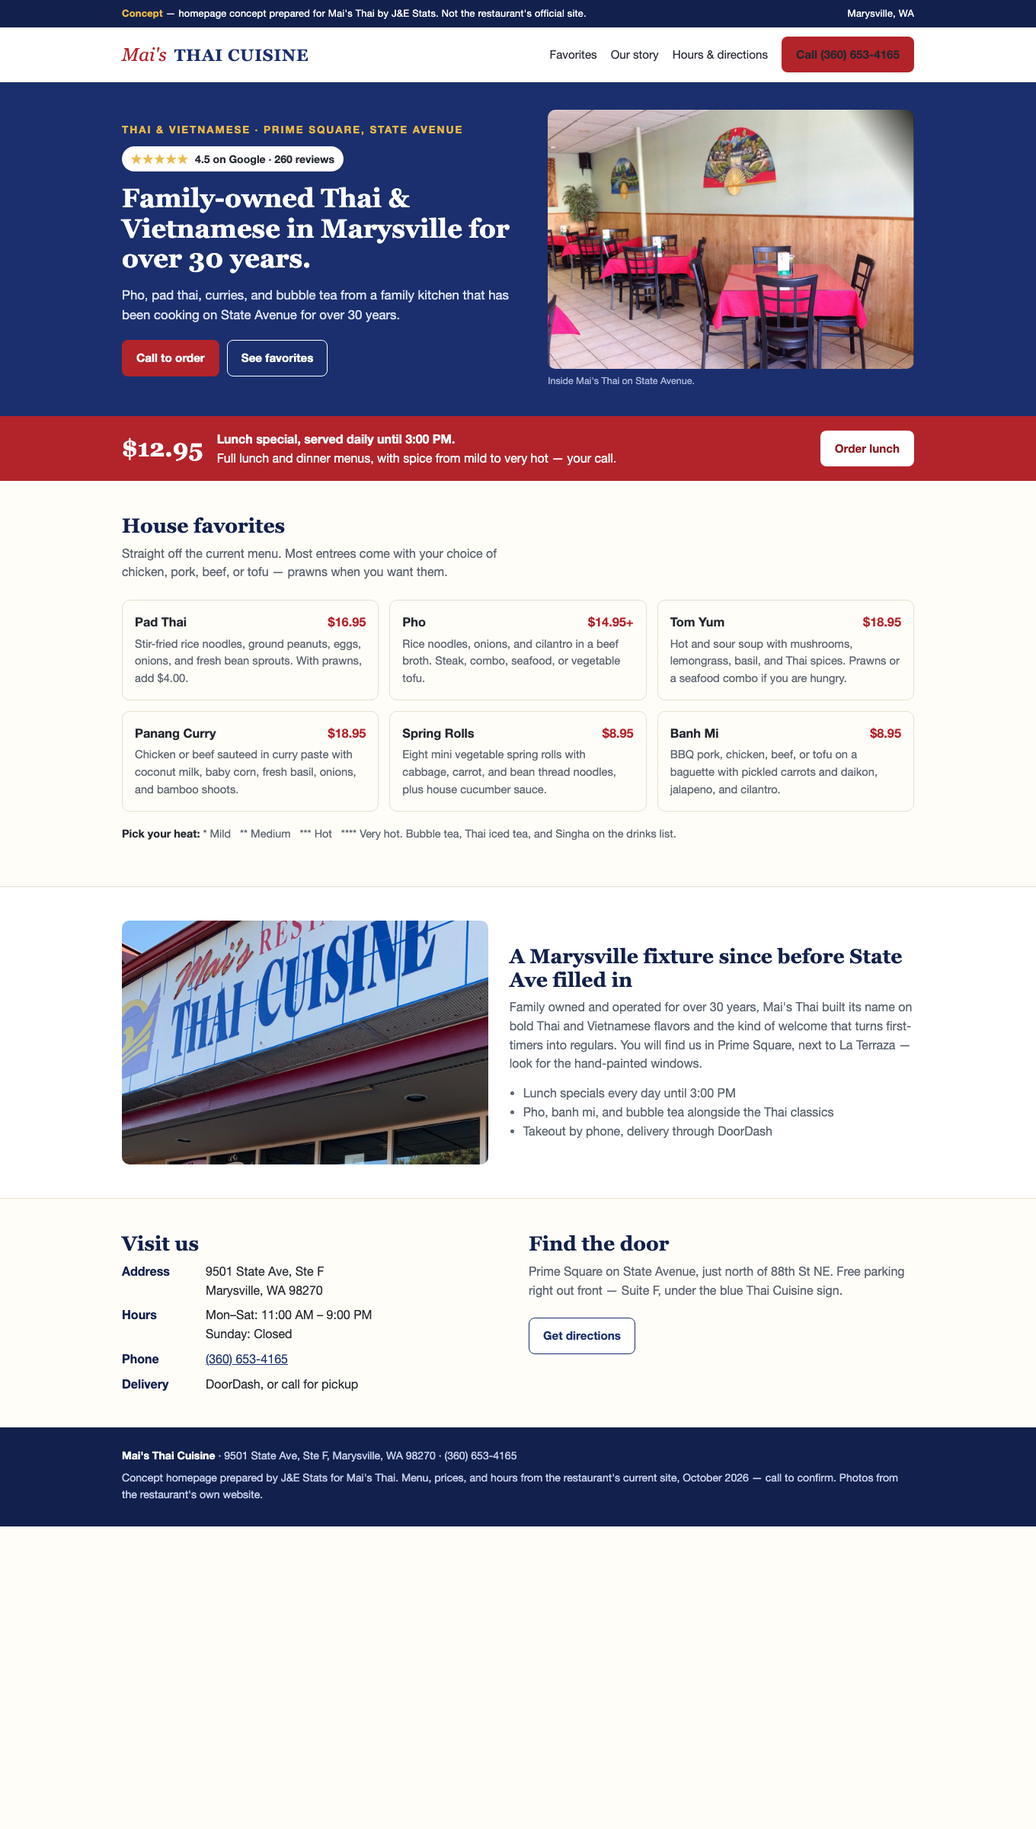
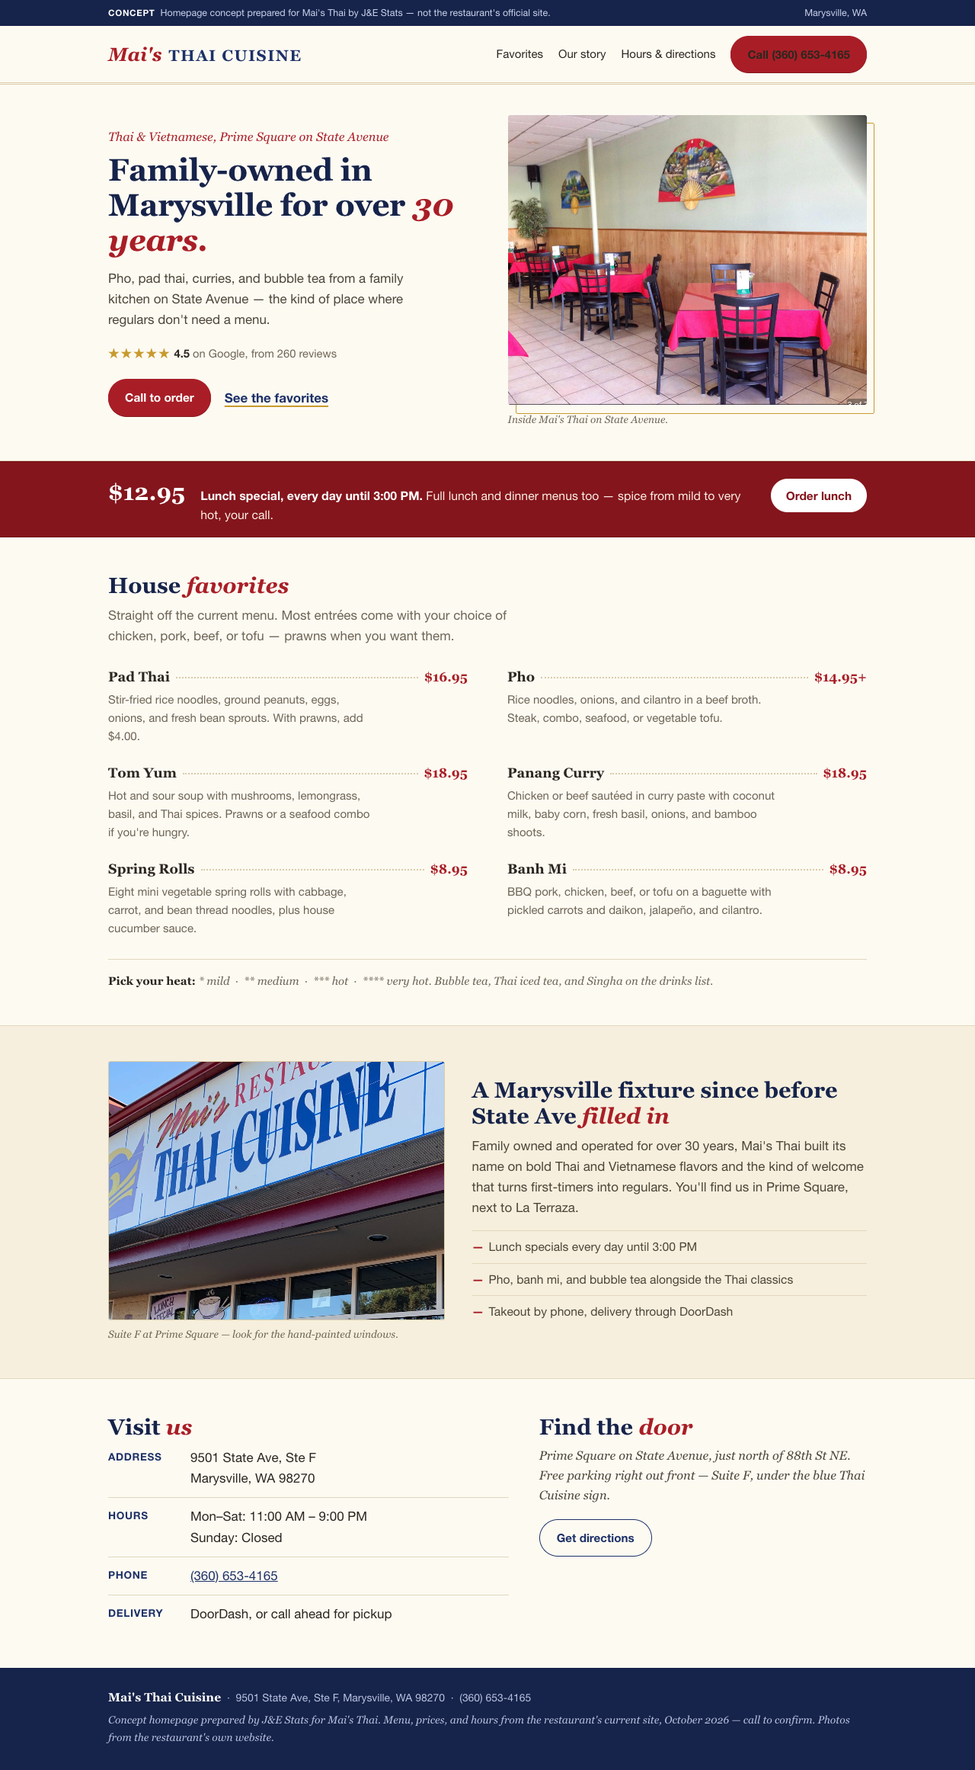
fix: clean up mais thai concept

diff --git a/public/concepts/mais-thai/index.html b/public/concepts/mais-thai/index.html
@@ -8,91 +8,136 @@
 <meta name="robots" content="noindex">
 <style>
   :root{
-    --navy:#1b2f6e; --navy-deep:#12204d; --red:#b3232a; --red-dark:#8e1a20;
-    --gold:#e9b949; --ink:#23272f; --muted:#5c6470; --paper:#fffdf7; --line:#e7e0cf;
+    --navy:#1d3168; --navy-deep:#16234a; --red:#a91e26; --red-deep:#84151c;
+    --gold:#c79a2e; --ink:#2b2620; --muted:#6d6455; --paper:#fdfaf2; --cream:#f6efdd;
+    --line:#e2d7bd; --hair:#d8cba8;
   }
   *{box-sizing:border-box}
   img{max-width:100%}
-  .hero .wrap>*,.story>*,.visit>*{min-width:0}
   html{scroll-behavior:smooth}
-  body{margin:0;font-family:-apple-system,"Segoe UI",Roboto,"Helvetica Neue",Arial,sans-serif;color:var(--ink);background:var(--paper);line-height:1.55}
-  h1,h2,.serif{font-family:Georgia,"Times New Roman",serif;font-weight:600;line-height:1.15}
+  body{margin:0;font-family:-apple-system,"Segoe UI",Roboto,"Helvetica Neue",Arial,sans-serif;font-size:17px;color:var(--ink);background:var(--paper);line-height:1.6;-webkit-font-smoothing:antialiased}
+  h1,h2,.serif{font-family:Georgia,"Times New Roman",Times,serif}
   a{color:var(--navy)}
-  .wrap{max-width:1080px;margin:0 auto;padding:0 20px}
-  .concept-bar{background:var(--navy-deep);color:#fff;font-size:.8rem;letter-spacing:.02em}
-  .concept-bar .wrap{display:flex;justify-content:space-between;gap:12px;padding-top:8px;padding-bottom:8px;flex-wrap:wrap}
-  .concept-bar strong{color:var(--gold);font-weight:700}
-  header.site{background:#fff;border-bottom:1px solid var(--line);position:sticky;top:0;z-index:5}
-  header.site .wrap{display:flex;align-items:center;gap:16px;padding-top:12px;padding-bottom:12px}
-  .brand{display:flex;align-items:baseline;gap:10px;text-decoration:none;color:var(--ink)}
-  .brand .mai{font-family:Georgia,serif;font-style:italic;color:var(--red);font-size:1.5rem}
-  .brand .thai{font-family:Georgia,serif;font-weight:700;color:var(--navy);font-size:1.35rem;letter-spacing:.04em;text-transform:uppercase}
-  nav.main{margin-left:auto;display:flex;gap:18px;align-items:center}
-  nav.main a{text-decoration:none;font-size:.95rem;color:var(--ink)}
-  nav.main a:hover{color:var(--red)}
-  .btn{display:inline-block;border-radius:8px;padding:11px 18px;text-decoration:none;font-weight:600;font-size:.95rem;border:1px solid transparent}
-  .btn-call{background:var(--red);color:#fff}
-  .btn-call:hover{background:var(--red-dark)}
-  .btn-ghost{border-color:var(--navy);color:var(--navy);background:#fff}
-  .hero{background:var(--navy);color:#fff}
-  .hero .wrap{display:grid;grid-template-columns:1.05fr .95fr;gap:28px;align-items:center;padding-top:36px;padding-bottom:36px}
-  .hero p.kicker{color:var(--gold);font-size:.85rem;font-weight:700;letter-spacing:.14em;text-transform:uppercase;margin:0 0 10px}
-  .hero h1{font-size:2.15rem;margin:0 0 14px}
-  .hero p.lede{color:#dbe2f7;margin:0 0 20px;font-size:1.05rem}
-  .hero .ctas{display:flex;gap:10px;flex-wrap:wrap}
-  .hero .btn-ghost{background:transparent;color:#fff;border-color:#fff}
-  .hero figure{margin:0}
-  .hero img{width:100%;height:340px;object-fit:cover;object-position:center 30%;border-radius:10px;display:block}
-  .hero figcaption{font-size:.78rem;color:#aebadd;margin-top:6px}
-  .rating{display:inline-flex;gap:8px;align-items:center;background:#fff;color:var(--ink);border-radius:999px;padding:6px 12px;font-size:.88rem;font-weight:600;margin-bottom:16px}
-  .rating .stars{color:var(--gold);letter-spacing:.08em}
-  .lunch{background:var(--red);color:#fff}
-  .lunch .wrap{display:flex;align-items:center;gap:18px;flex-wrap:wrap;padding-top:18px;padding-bottom:18px}
-  .lunch .price{font-family:Georgia,serif;font-size:2rem;font-weight:700}
-  .lunch p{margin:0;flex:1;min-width:240px}
-  .lunch .btn{background:#fff;color:var(--red-dark)}
-  section{padding:44px 0}
-  section.alt{background:#fff;border-top:1px solid var(--line);border-bottom:1px solid var(--line)}
-  h2{font-size:1.65rem;margin:0 0 8px;color:var(--navy-deep)}
-  .sub{color:var(--muted);margin:0 0 24px;max-width:62ch}
-  .menu-grid{display:grid;grid-template-columns:repeat(3,1fr);gap:14px}
-  .dish{border:1px solid var(--line);border-radius:10px;padding:16px;background:var(--paper)}
-  .dish h3{margin:0 0 4px;font-size:1.02rem;display:flex;justify-content:space-between;gap:10px}
-  .dish h3 .p{color:var(--red);font-weight:700;white-space:nowrap}
-  .dish p{margin:0;color:var(--muted);font-size:.92rem}
-  .spice{margin-top:18px;font-size:.9rem;color:var(--muted)}
-  .spice strong{color:var(--ink)}
-  .story{display:grid;grid-template-columns:.95fr 1.05fr;gap:28px;align-items:center}
-  .story img{width:100%;height:320px;object-fit:cover;object-position:center 25%;border-radius:10px;display:block}
-  .story ul{margin:14px 0 0;padding-left:18px;color:var(--muted)}
-  .visit{display:grid;grid-template-columns:1fr 1fr;gap:28px}
-  .visit dl{margin:0;display:grid;grid-template-columns:110px 1fr;row-gap:8px}
-  .visit dt{font-weight:700;color:var(--navy-deep)}
+  a:focus-visible,.btn:focus-visible{outline:2px solid var(--gold);outline-offset:3px;border-radius:2px}
+  .wrap{max-width:1040px;margin:0 auto;padding:0 22px}
+  .skip{position:absolute;left:-9999px;top:0;background:#fff;padding:8px 14px;z-index:20}
+  .skip:focus{left:8px;top:8px}
+
+  /* concept strip — quiet, like a colophon, not a banner */
+  .concept-bar{background:var(--navy-deep);color:#c9d2ec;font-size:.78rem}
+  .concept-bar .wrap{display:flex;justify-content:space-between;gap:10px 18px;padding-top:7px;padding-bottom:7px;flex-wrap:wrap}
+  .concept-bar strong{color:#fff;font-weight:700;letter-spacing:.06em;text-transform:uppercase;font-size:.72rem}
+
+  header.site{background:var(--paper);border-bottom:3px double var(--hair);position:sticky;top:0;z-index:5}
+  header.site .wrap{display:flex;align-items:center;gap:16px;padding-top:13px;padding-bottom:13px}
+  .brand{display:flex;align-items:baseline;gap:9px;text-decoration:none;color:var(--ink)}
+  .brand .mai{font-family:Georgia,serif;font-style:italic;font-weight:700;color:var(--red);font-size:1.55rem;line-height:1}
+  .brand .thai{font-family:Georgia,serif;font-weight:700;color:var(--navy);font-size:1.28rem;letter-spacing:.07em;text-transform:uppercase;line-height:1}
+  nav.main{margin-left:auto;display:flex;gap:20px;align-items:center}
+  nav.main a{text-decoration:none;font-size:.94rem;color:var(--ink)}
+  nav.main a:not(.btn):hover{color:var(--red);text-decoration:underline;text-underline-offset:3px}
+
+  .btn{display:inline-block;border-radius:999px;padding:12px 22px;text-decoration:none;font-weight:700;font-size:.96rem}
+  .btn-call{background:var(--red);color:#fff;box-shadow:0 1px 0 var(--red-deep)}
+  .btn-call:hover{background:var(--red-deep)}
+  .link-more{font-weight:700;text-decoration:underline;text-underline-offset:4px;text-decoration-color:var(--gold);text-decoration-thickness:2px}
+  .link-more:hover{color:var(--red)}
+
+  /* hero — editorial, photo carries the color */
+  .hero{border-bottom:1px solid var(--line)}
+  .hero .wrap{display:grid;grid-template-columns:1.02fr .98fr;gap:34px;align-items:center;padding-top:40px;padding-bottom:42px}
+  .hero .where{font-family:Georgia,serif;font-style:italic;color:var(--red);font-size:1.02rem;margin:0 0 8px}
+  .hero h1{font-size:2.55rem;font-weight:600;line-height:1.12;letter-spacing:-.01em;margin:0 0 14px;color:var(--navy-deep)}
+  .hero h1 em{color:var(--red)}
+  .hero p.lede{color:#4c4538;margin:0 0 18px;font-size:1.06rem;max-width:44ch}
+  .hero .rating-line{font-size:.92rem;color:var(--muted);margin:0 0 22px}
+  .hero .rating-line .stars{color:var(--gold);letter-spacing:.12em}
+  .hero .rating-line strong{color:var(--ink)}
+  .hero .ctas{display:flex;gap:18px;flex-wrap:wrap;align-items:center}
+  .hero figure{margin:0;position:relative}
+  .hero figure::before{content:"";position:absolute;top:10px;left:10px;right:-10px;height:380px;border:1px solid var(--gold);border-radius:3px;z-index:0}
+  .hero img{position:relative;z-index:1;width:100%;height:380px;object-fit:cover;object-position:center 30%;border-radius:3px;display:block}
+  .hero figcaption{font-family:Georgia,serif;font-style:italic;font-size:.85rem;color:var(--muted);margin-top:9px}
+
+  /* lunch strip — like a hand-lettered specials board */
+  .lunch{background:var(--red-deep);color:#fbeee4;border-top:1px solid #6e1015;border-bottom:1px solid #6e1015}
+  .lunch .wrap{display:flex;align-items:baseline;gap:14px 20px;flex-wrap:wrap;padding-top:16px;padding-bottom:16px}
+  .lunch .price{font-family:Georgia,serif;font-size:1.9rem;font-weight:700;font-variant-numeric:tabular-nums;color:#fff}
+  .lunch p{margin:0;flex:1;min-width:250px;font-size:.99rem}
+  .lunch p strong{color:#fff}
+  .lunch .btn{background:#fff;color:var(--red-deep);padding:10px 20px}
+  .lunch .btn:hover{background:var(--cream)}
+
+  section{padding:46px 0}
+  h2{font-size:1.8rem;font-weight:600;line-height:1.2;margin:0 0 8px;color:var(--navy-deep)}
+  h2 em{color:var(--red)}
+  .sub{color:var(--muted);margin:0 0 26px;max-width:60ch}
+  .rule{border:0;border-top:3px double var(--hair);margin:0}
+
+  /* the menu, set like a menu — dotted leaders, no boxes */
+  .menu-list{display:grid;grid-template-columns:1fr 1fr;column-gap:52px;row-gap:22px;margin:0;padding:0;list-style:none}
+  .dish .line{display:flex;align-items:baseline;gap:8px}
+  .dish h3{margin:0;font-family:Georgia,serif;font-weight:700;font-size:1.12rem;color:var(--ink);white-space:nowrap}
+  .dish .dots{flex:1;border-bottom:2px dotted var(--hair);transform:translateY(-4px)}
+  .dish .p{font-family:Georgia,serif;font-weight:700;color:var(--red);font-variant-numeric:tabular-nums;white-space:nowrap}
+  .dish p{margin:3px 0 0;color:var(--muted);font-size:.94rem;max-width:42ch}
+  .spice{margin:28px 0 0;padding-top:16px;border-top:1px solid var(--line);font-size:.93rem;color:var(--muted);font-family:Georgia,serif;font-style:italic}
+  .spice strong{color:var(--ink);font-style:normal}
+
+  .story-sec{background:var(--cream);border-top:1px solid var(--line);border-bottom:1px solid var(--line)}
+  .story{display:grid;grid-template-columns:.92fr 1.08fr;gap:36px;align-items:center}
+  .story figure{margin:0}
+  .story img{width:100%;height:340px;object-fit:cover;object-position:center 22%;border-radius:3px;display:block;border:1px solid var(--hair)}
+  .story figcaption{font-family:Georgia,serif;font-style:italic;font-size:.85rem;color:var(--muted);margin-top:8px}
+  .story p{color:#4c4538;margin:0}
+  .story ul{margin:16px 0 0;padding:0;list-style:none}
+  .story li{padding:8px 0 8px 22px;position:relative;border-top:1px solid var(--line);color:#4c4538;font-size:.98rem}
+  .story li::before{content:"—";position:absolute;left:0;color:var(--red);font-weight:700}
+
+  .visit{display:grid;grid-template-columns:1.1fr .9fr;gap:40px}
+  .visit dl{margin:0}
+  .visit .row{display:flex;gap:16px;padding:11px 0;border-top:1px solid var(--line)}
+  .visit .row:first-of-type{border-top:0;padding-top:2px}
+  .visit dt{flex:0 0 92px;font-weight:700;font-size:.85rem;letter-spacing:.05em;text-transform:uppercase;color:var(--navy);padding-top:2px}
   .visit dd{margin:0}
-  footer{background:var(--navy-deep);color:#c6cfeb;font-size:.88rem}
-  footer .wrap{padding-top:26px;padding-bottom:30px;display:grid;gap:8px}
-  footer strong{color:#fff}
+  .visit .note{font-family:Georgia,serif;font-style:italic;color:#4c4538;font-size:1.02rem;margin:0 0 18px}
+  .btn-ghost{display:inline-block;border:1.5px solid var(--navy);color:var(--navy);border-radius:999px;padding:11px 22px;text-decoration:none;font-weight:700;font-size:.95rem;background:transparent}
+  .btn-ghost:hover{background:var(--navy);color:#fff}
+
+  footer{background:var(--navy-deep);color:#b9c3e2;font-size:.87rem}
+  footer .wrap{padding-top:26px;padding-bottom:32px;display:grid;gap:6px}
+  footer strong{color:#fff;font-family:Georgia,serif;font-size:.98rem}
+  footer .fine{font-style:italic;font-family:Georgia,serif}
   .mobilebar{display:none}
+
   @media (max-width:760px){
+    body{font-size:16.5px}
     .hero .wrap,.story,.visit{grid-template-columns:1fr}
-    .menu-grid{grid-template-columns:1fr}
-    .hero img{height:250px}
+    .hero h1{font-size:2.05rem}
+    .hero .wrap{padding-top:28px;padding-bottom:32px;gap:24px}
+    .hero img{height:260px}
+    .hero figure::before{top:7px;left:7px;right:-7px;height:260px}
+    .menu-list{grid-template-columns:1fr;row-gap:18px}
+    .dish h3{white-space:normal}
     nav.main{display:none}
-    .brand .mai{font-size:1.25rem}
+    .brand .mai{font-size:1.3rem}
     .brand .thai{font-size:1.05rem}
     .mobilebar{display:flex;position:sticky;bottom:0;z-index:6;background:#fff;border-top:1px solid var(--line)}
-    .mobilebar a{flex:1;text-align:center;padding:13px 8px;text-decoration:none;font-weight:700}
+    .mobilebar a{flex:1;text-align:center;padding:14px 8px;text-decoration:none;font-weight:700}
     .mobilebar a:first-child{background:var(--red);color:#fff}
     .mobilebar a:last-child{color:var(--navy)}
-    body{padding-bottom:0}
+  }
+  @media (prefers-reduced-motion:reduce){
+    html{scroll-behavior:auto}
   }
 </style>
 </head>
 <body>
+<a class="skip" href="#top">Skip to content</a>
 
 <div class="concept-bar">
   <div class="wrap">
-    <span><strong>Concept</strong> — homepage concept prepared for Mai's Thai by J&amp;E Stats. Not the restaurant's official site.</span>
+    <span><strong>Concept</strong> &nbsp;Homepage concept prepared for Mai's Thai by J&amp;E Stats — not the restaurant's official site.</span>
     <span>Marysville, WA</span>
   </div>
 </div>
@@ -115,13 +160,13 @@
   <section class="hero" style="padding:0">
     <div class="wrap">
       <div>
-        <p class="kicker">Thai &amp; Vietnamese · Prime Square, State Avenue</p>
-        <span class="rating"><span class="stars" aria-hidden="true">★★★★★</span> 4.5 on Google · 260 reviews</span>
-        <h1>Family-owned Thai &amp; Vietnamese in Marysville for over 30 years.</h1>
-        <p class="lede">Pho, pad thai, curries, and bubble tea from a family kitchen that has been cooking on State Avenue for over 30 years.</p>
+        <p class="where">Thai &amp; Vietnamese, Prime Square on State Avenue</p>
+        <h1>Family-owned in Marysville for over <em>30 years.</em></h1>
+        <p class="lede">Pho, pad thai, curries, and bubble tea from a family kitchen on State Avenue — the kind of place where regulars don't need a menu.</p>
+        <p class="rating-line"><span class="stars" aria-hidden="true">★★★★★</span> <strong>4.5</strong> on Google, from 260 reviews</p>
         <div class="ctas">
           <a class="btn btn-call" href="tel:+13606534165">Call to order</a>
-          <a class="btn btn-ghost" href="#favorites">See favorites</a>
+          <a class="link-more" href="#favorites">See the favorites</a>
         </div>
       </div>
       <figure>
@@ -134,33 +179,36 @@
   <div class="lunch">
     <div class="wrap">
       <span class="price">$12.95</span>
-      <p><strong>Lunch special, served daily until 3:00 PM.</strong><br>Full lunch and dinner menus, with spice from mild to very hot — your call.</p>
+      <p><strong>Lunch special, every day until 3:00 PM.</strong> Full lunch and dinner menus too — spice from mild to very hot, your call.</p>
       <a class="btn" href="tel:+13606534165">Order lunch</a>
     </div>
   </div>
 
   <section id="favorites">
     <div class="wrap">
-      <h2>House favorites</h2>
-      <p class="sub">Straight off the current menu. Most entrees come with your choice of chicken, pork, beef, or tofu — prawns when you want them.</p>
-      <div class="menu-grid">
-        <article class="dish"><h3>Pad Thai <span class="p">$16.95</span></h3><p>Stir-fried rice noodles, ground peanuts, eggs, onions, and fresh bean sprouts. With prawns, add $4.00.</p></article>
-        <article class="dish"><h3>Pho <span class="p">$14.95+</span></h3><p>Rice noodles, onions, and cilantro in a beef broth. Steak, combo, seafood, or vegetable tofu.</p></article>
-        <article class="dish"><h3>Tom Yum <span class="p">$18.95</span></h3><p>Hot and sour soup with mushrooms, lemongrass, basil, and Thai spices. Prawns or a seafood combo if you are hungry.</p></article>
-        <article class="dish"><h3>Panang Curry <span class="p">$18.95</span></h3><p>Chicken or beef sauteed in curry paste with coconut milk, baby corn, fresh basil, onions, and bamboo shoots.</p></article>
-        <article class="dish"><h3>Spring Rolls <span class="p">$8.95</span></h3><p>Eight mini vegetable spring rolls with cabbage, carrot, and bean thread noodles, plus house cucumber sauce.</p></article>
-        <article class="dish"><h3>Banh Mi <span class="p">$8.95</span></h3><p>BBQ pork, chicken, beef, or tofu on a baguette with pickled carrots and daikon, jalapeno, and cilantro.</p></article>
-      </div>
-      <p class="spice"><strong>Pick your heat:</strong> * Mild &nbsp; ** Medium &nbsp; *** Hot &nbsp; **** Very hot. Bubble tea, Thai iced tea, and Singha on the drinks list.</p>
+      <h2>House <em>favorites</em></h2>
+      <p class="sub">Straight off the current menu. Most entrées come with your choice of chicken, pork, beef, or tofu — prawns when you want them.</p>
+      <ul class="menu-list">
+        <li class="dish"><div class="line"><h3>Pad Thai</h3><span class="dots" aria-hidden="true"></span><span class="p">$16.95</span></div><p>Stir-fried rice noodles, ground peanuts, eggs, onions, and fresh bean sprouts. With prawns, add $4.00.</p></li>
+        <li class="dish"><div class="line"><h3>Pho</h3><span class="dots" aria-hidden="true"></span><span class="p">$14.95+</span></div><p>Rice noodles, onions, and cilantro in a beef broth. Steak, combo, seafood, or vegetable tofu.</p></li>
+        <li class="dish"><div class="line"><h3>Tom Yum</h3><span class="dots" aria-hidden="true"></span><span class="p">$18.95</span></div><p>Hot and sour soup with mushrooms, lemongrass, basil, and Thai spices. Prawns or a seafood combo if you're hungry.</p></li>
+        <li class="dish"><div class="line"><h3>Panang Curry</h3><span class="dots" aria-hidden="true"></span><span class="p">$18.95</span></div><p>Chicken or beef sautéed in curry paste with coconut milk, baby corn, fresh basil, onions, and bamboo shoots.</p></li>
+        <li class="dish"><div class="line"><h3>Spring Rolls</h3><span class="dots" aria-hidden="true"></span><span class="p">$8.95</span></div><p>Eight mini vegetable spring rolls with cabbage, carrot, and bean thread noodles, plus house cucumber sauce.</p></li>
+        <li class="dish"><div class="line"><h3>Banh Mi</h3><span class="dots" aria-hidden="true"></span><span class="p">$8.95</span></div><p>BBQ pork, chicken, beef, or tofu on a baguette with pickled carrots and daikon, jalapeño, and cilantro.</p></li>
+      </ul>
+      <p class="spice"><strong>Pick your heat:</strong> * mild &nbsp;·&nbsp; ** medium &nbsp;·&nbsp; *** hot &nbsp;·&nbsp; **** very hot. Bubble tea, Thai iced tea, and Singha on the drinks list.</p>
     </div>
   </section>
 
-  <section class="alt" id="story">
+  <section class="story-sec" id="story">
     <div class="wrap story">
-      <img src="img/storefront.jpg" alt="The Mai's Thai Cuisine storefront at Prime Square, with hand-painted windows advertising pho, bubble tea, and lunch specials" width="1200" height="1600" loading="lazy">
+      <figure>
+        <img src="img/storefront.jpg" alt="The Mai's Thai Cuisine storefront at Prime Square, with hand-painted windows advertising pho, bubble tea, and lunch specials" width="1200" height="1600" loading="lazy">
+        <figcaption>Suite F at Prime Square — look for the hand-painted windows.</figcaption>
+      </figure>
       <div>
-        <h2>A Marysville fixture since before State Ave filled in</h2>
-        <p class="sub" style="margin-bottom:0">Family owned and operated for over 30 years, Mai's Thai built its name on bold Thai and Vietnamese flavors and the kind of welcome that turns first-timers into regulars. You will find us in Prime Square, next to La Terraza — look for the hand-painted windows.</p>
+        <h2>A Marysville fixture since before State Ave <em>filled in</em></h2>
+        <p>Family owned and operated for over 30 years, Mai's Thai built its name on bold Thai and Vietnamese flavors and the kind of welcome that turns first-timers into regulars. You'll find us in Prime Square, next to La Terraza.</p>
         <ul>
           <li>Lunch specials every day until 3:00 PM</li>
           <li>Pho, banh mi, and bubble tea alongside the Thai classics</li>
@@ -173,18 +221,18 @@
   <section id="visit">
     <div class="wrap visit">
       <div>
-        <h2>Visit us</h2>
+        <h2>Visit <em>us</em></h2>
         <dl>
-          <dt>Address</dt><dd>9501 State Ave, Ste F<br>Marysville, WA 98270</dd>
-          <dt>Hours</dt><dd>Mon–Sat: 11:00 AM – 9:00 PM<br>Sunday: Closed</dd>
-          <dt>Phone</dt><dd><a href="tel:+13606534165">(360) 653-4165</a></dd>
-          <dt>Delivery</dt><dd>DoorDash, or call for pickup</dd>
+          <div class="row"><dt>Address</dt><dd>9501 State Ave, Ste F<br>Marysville, WA 98270</dd></div>
+          <div class="row"><dt>Hours</dt><dd>Mon–Sat: 11:00 AM – 9:00 PM<br>Sunday: Closed</dd></div>
+          <div class="row"><dt>Phone</dt><dd><a href="tel:+13606534165">(360) 653-4165</a></dd></div>
+          <div class="row"><dt>Delivery</dt><dd>DoorDash, or call ahead for pickup</dd></div>
         </dl>
       </div>
       <div>
-        <h2>Find the door</h2>
-        <p class="sub">Prime Square on State Avenue, just north of 88th St NE. Free parking right out front — Suite F, under the blue Thai Cuisine sign.</p>
-        <p><a class="btn btn-ghost" href="https://www.google.com/maps/search/?api=1&amp;query=Mai%27s+Thai+Cuisine+9501+State+Ave+Marysville+WA" target="_blank" rel="noreferrer">Get directions</a></p>
+        <h2>Find the <em>door</em></h2>
+        <p class="note">Prime Square on State Avenue, just north of 88th St NE. Free parking right out front — Suite F, under the blue Thai Cuisine sign.</p>
+        <p style="margin:0"><a class="btn-ghost" href="https://www.google.com/maps/search/?api=1&amp;query=Mai%27s+Thai+Cuisine+9501+State+Ave+Marysville+WA" target="_blank" rel="noreferrer">Get directions</a></p>
       </div>
     </div>
   </section>
@@ -192,8 +240,8 @@
 
 <footer>
   <div class="wrap">
-    <span><strong>Mai's Thai Cuisine</strong> · 9501 State Ave, Ste F, Marysville, WA 98270 · (360) 653-4165</span>
-    <span>Concept homepage prepared by J&amp;E Stats for Mai's Thai. Menu, prices, and hours from the restaurant's current site, October 2026 — call to confirm. Photos from the restaurant's own website.</span>
+    <span><strong>Mai's Thai Cuisine</strong> &nbsp;·&nbsp; 9501 State Ave, Ste F, Marysville, WA 98270 &nbsp;·&nbsp; (360) 653-4165</span>
+    <span class="fine">Concept homepage prepared by J&amp;E Stats for Mai's Thai. Menu, prices, and hours from the restaurant's current site, October 2026 — call to confirm. Photos from the restaurant's own website.</span>
   </div>
 </footer>
 
